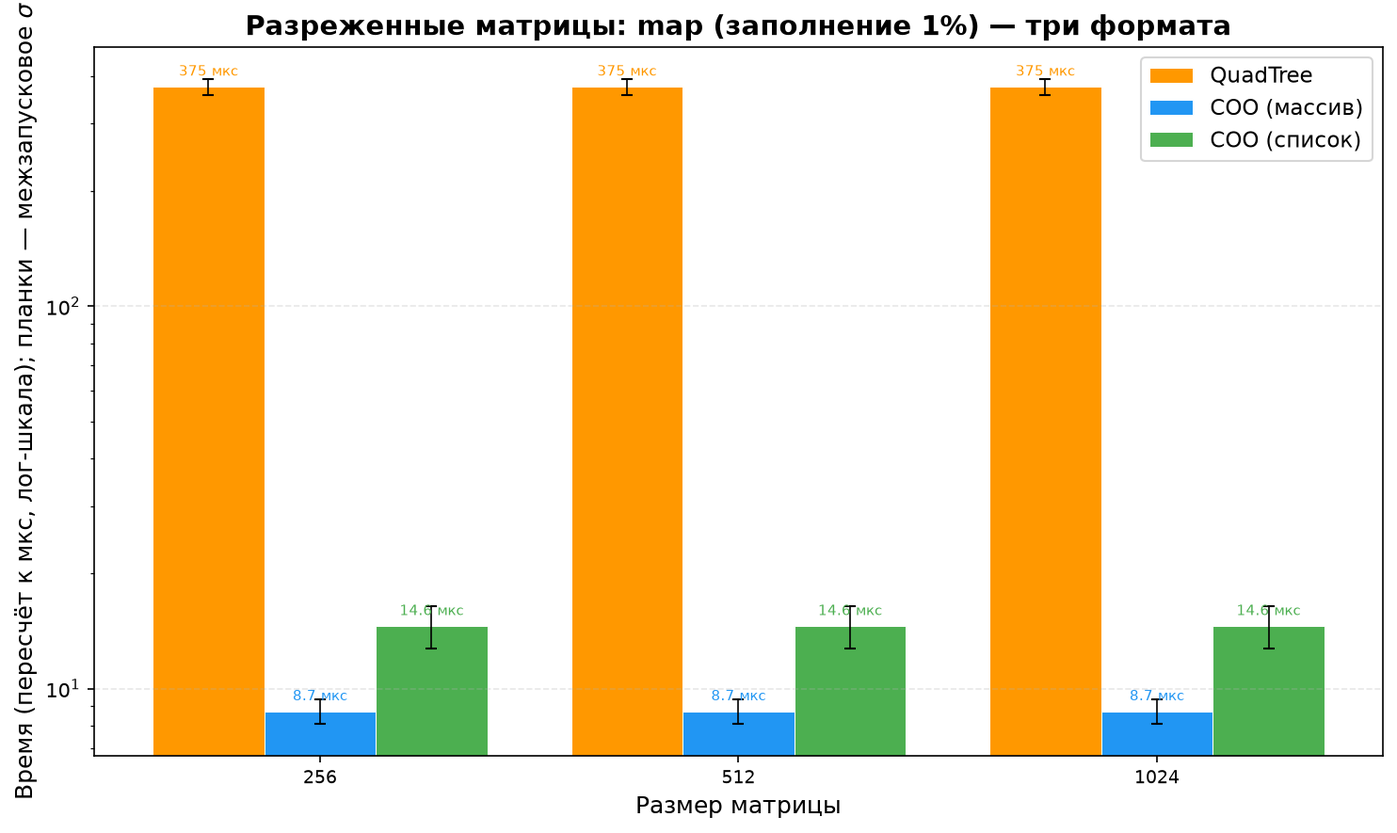
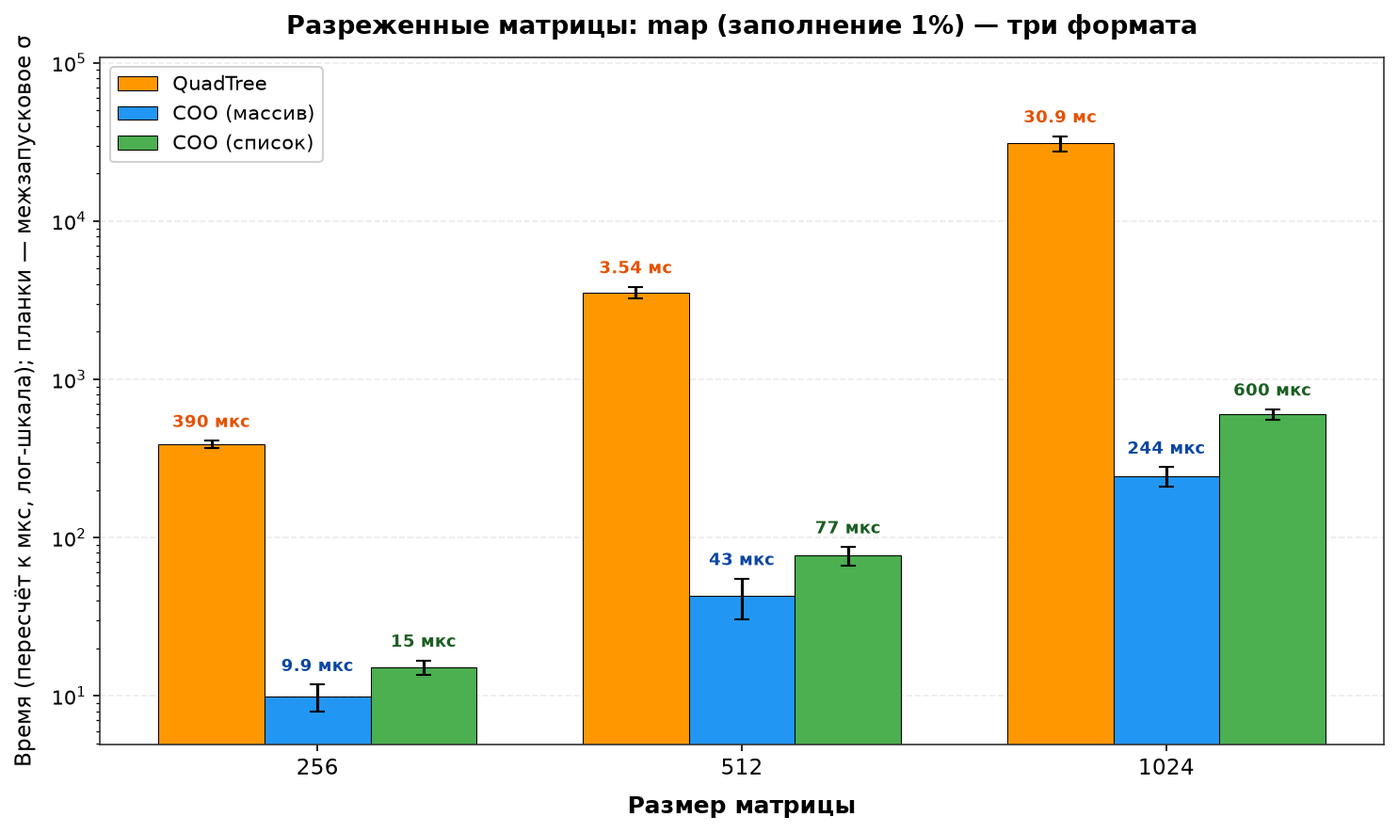
docs: update practice report and benchmark figures

Changed region(s): [[0.0, 0.0, 0.9919, 0.9763]]

diff --git a/Sergej_Narysev/Sergej_Narysev_report.tex b/Sergej_Narysev/Sergej_Narysev_report.tex
@@ -1,4 +1,4 @@
-\documentclass[a4paper]{article}
+\documentclass[a4paper]{article}
 
 \usepackage[a4paper, top=8mm, bottom=8mm, left=8mm, right=8mm]{geometry}
 \usepackage{float}
@@ -226,12 +226,12 @@ Property-based тесты (проверяются на широком диапа
     \end{minipage}
 \end{figure}
 
-Результаты для матриц с плотностью~5\% имеют тот же характер, но абсолютные значения времени выше. На матрице $1024\times1024$ время \texttt{map} возрастает с $0{,}269$ до $8{,}58$\,мс (в 32 раза), \texttt{mxm}~--- с $76{,}9$ до $1908$\,мс (в 25 раз), а \texttt{mapi}~--- лишь с $13{,}3$ до $21{,}6$\,мс (в 1{,}6 раза), поскольку \texttt{mapi} обходит всю сетку $N^2$ независимо от числа ненулевых элементов. Из графиков для плотности~5\% приведён \texttt{mapi} (рис.~\ref{fig:sparse_mapi_5}); остальные опущены, чтобы не перегружать отчёт.
+Результаты для матриц с плотностью~5\% имеют тот же характер, но абсолютные значения времени выше. На матрице $1024\times1024$ время \texttt{map} возрастает с $0{,}244$ до $10{,}8$\,мс (в 44 раза), \texttt{mxm}~--- с $56{,}3$ до $1294$\,мс (в 23 раза), а \texttt{mapi}~--- лишь с $10{,}4$ до $24{,}6$\,мс (в 2{,}4 раза), поскольку \texttt{mapi} обходит всю сетку $N^2$ независимо от числа ненулевых элементов. Из графиков для плотности~5\% приведён \texttt{mapi} (рис.~\ref{fig:sparse_mapi_5}); остальные опущены, чтобы не перегружать отчёт.
 
 По результатам измерений на разреженных синтетических матрицах:
 \begin{itemize}
-    \item \textbf{\texttt{map}, \texttt{mapi}, \texttt{map2}, \texttt{map2i}, \texttt{mxm}:} COO на массиве быстрее quadtree во всех случаях. На матрице $1024\times1024$ с плотностью~1\% COO быстрее в операции \texttt{map} в 120 раз ($0{,}269 \pm 0{,}057$\,мс против $32{,}4 \pm 14$\,мс), в \texttt{mapi}~--- в 8,1 раза ($13{,}3 \pm 4{,}2$\,мс против $107 \pm 42$\,мс), в \texttt{map2}~--- в 8,1 раза ($7{,}76 \pm 2{,}7$\,мс против $63{,}1 \pm 12$\,мс), в \texttt{map2i}~--- в 10,5 раза ($15{,}7 \pm 2{,}3$\,мс против $165 \pm 54$\,мс), в \texttt{mxm}~--- в 101 раз ($76{,}9 \pm 9{,}4$\,мс против $7{,}76 \pm 0{,}89$\,с). Группировка троек по строкам в \texttt{mxmcoo} даёт перебор только ненулевых пар, число которых равно $k$ (лемма 5), тогда как рекурсивный алгоритм quadtree в таких данных почти не получает выигрыша от конденсации.
-    \item \textbf{\texttt{get} и \texttt{set}:} quadtree быстрее, но после перехода COO на бинарный поиск разрыв по \texttt{get} практически исчез. На матрице $1024\times1024$ с плотностью~1\% \texttt{get} сопоставимы: $32{,}4 \pm 4{,}7$\,мкс у quadtree против $34{,}5 \pm 3{,}8$\,мкс у COO (quadtree быстрее лишь в 1,06 раза, то есть в пределах межзапускового разброса). Для \texttt{set} quadtree быстрее в 12,8 раза ($0{,}374 \pm 0{,}045$\,мс против $4{,}77 \pm 0{,}94$\,мс). Ожидаемо: доступ и обновление в дереве выполняются за $O(\log N)$, тогда как COO выполняет бинарный поиск по отсортированному массиву за $O(\log n)$, а обновление дополнительно требует копирования массива и сдвига за $O(n)$.
+    \item \textbf{\texttt{map}, \texttt{mapi}, \texttt{map2}, \texttt{map2i}, \texttt{mxm}:} COO на массиве быстрее quadtree во всех случаях. На матрице $1024\times1024$ с плотностью~1\% COO быстрее в операции \texttt{map} в 127 раз ($0{,}244 \pm 0{,}035$\,мс против $30{,}9 \pm 3{,}5$\,мс), в \texttt{mapi}~--- в 12,3 раза ($10{,}4 \pm 1{,}1$\,мс против $128 \pm 7{,}8$\,мс), в \texttt{map2}~--- в 15,2 раза ($4{,}10 \pm 0{,}39$\,мс против $62{,}2 \pm 6{,}7$\,мс), в \texttt{map2i}~--- в 10,6 раза ($16{,}0 \pm 0{,}53$\,мс против $169 \pm 25$\,мс), в \texttt{mxm}~--- в 161 раз ($56{,}3 \pm 10{,}0$\,мс против $9{,}05 \pm 2{,}01$\,с). Группировка троек по строкам в \texttt{mxmcoo} даёт перебор только ненулевых пар, число которых равно $k$ (лемма 5), тогда как рекурсивный алгоритм quadtree в таких данных почти не получает выигрыша от конденсации.
+    \item \textbf{\texttt{get} и \texttt{set}:} quadtree быстрее, но после перехода COO на бинарный поиск разрыв по \texttt{get} практически исчез. На матрице $1024\times1024$ с плотностью~1\% \texttt{get} сопоставимы: $35{,}6 \pm 1{,}4$\,мкс у quadtree против $34{,}3 \pm 7{,}5$\,мкс у COO (сопоставимы, COO быстрее лишь в 1,04 раза, то есть в пределах межзапускового разброса). Для \texttt{set} quadtree быстрее в 12,6 раза ($0{,}401 \pm 0{,}012$\,мс против $5{,}05 \pm 0{,}43$\,мс). Ожидаемо: доступ и обновление в дереве выполняются за $O(\log N)$, тогда как COO выполняет бинарный поиск по отсортированному массиву за $O(\log n)$, а обновление дополнительно требует копирования массива и сдвига за $O(n)$.
 \end{itemize}
 
 \subsection{Эксперимент~2: Плотные матрицы}
@@ -276,7 +276,7 @@ Property-based тесты (проверяются на широком диапа
     \end{minipage}
 \end{figure}
 
-На плотных данных проявляется специализация форматов. В операциях \texttt{get}, \texttt{set} и \texttt{mxm} quadtree быстрее COO. На матрице $256\times256$ \texttt{get} сопоставимы: $2{,}68 \pm 0{,}24$\,мс у quadtree против $3{,}61 \pm 0{,}19$\,мс у COO (в 1,35 раза): quadtree спускается по $\log N$ уровням, а COO~--- по $\log n$ троек. Операция \texttt{set} в COO пересоздаёт отсортированный массив при каждом обновлении (копирование и вставка со сдвигом за $O(n)$): на $256\times256$~--- $18{,}6 \pm 0{,}59$\,мс у quadtree против $8{,}00 \pm 0{,}24$\,с у COO (в 430 раз). В операции \texttt{mxm} quadtree также быстрее: $1{,}50 \pm 0{,}06$\,с у quadtree против $11{,}7 \pm 0{,}6$\,с у COO (в 7,8 раза)~--- деление на подматрицы и конденсация окупаются на плотной структуре. Напротив, в операциях \texttt{map} и \texttt{mapi} COO на массиве быстрее: на $256\times256$~--- $9{,}37 \pm 0{,}23$\,мс у COO против $19{,}1 \pm 0{,}42$\,мс у quadtree (в 2,0 раза) и $11{,}6 \pm 0{,}32$\,мс у COO против $19{,}8 \pm 1{,}2$\,мс у quadtree (в 1,7 раза) соответственно. При этом COO на списке в этих операциях лишь немного медленнее массива ($13{,}8 \pm 0{,}32$\,мс и $13{,}0 \pm 0{,}23$\,мс), но проигрывает в \texttt{get} в 715 раз и в \texttt{set} в 40 раз ($2{,}59 \pm 0{,}011$\,с и $320 \pm 5{,}6$\,с соответственно). При полной плотности quadtree вынужден хранить и обходить почти все $N^2$ листьев, что сводит на нет преимущество конденсации, тогда как COO обрабатывает $n=N^2$ троек с меньшими константными накладными расходами.
+На плотных данных проявляется специализация форматов. В операциях \texttt{get}, \texttt{set} и \texttt{mxm} quadtree быстрее COO. На матрице $256\times256$ \texttt{get} сопоставимы: $2{,}46 \pm 0{,}07$\,мс у quadtree против $2{,}95 \pm 0{,}03$\,мс у COO (в 1,20 раза): quadtree спускается по $\log N$ уровням, а COO~--- по $\log n$ троек. Операция \texttt{set} в COO пересоздаёт отсортированный массив при каждом обновлении (копирование и вставка со сдвигом за $O(n)$): на $256\times256$~--- $19{,}5 \pm 0{,}45$\,мс у quadtree против $8{,}19 \pm 0{,}45$\,с у COO (в 420 раз). В операции \texttt{mxm} quadtree также быстрее: $2{,}07 \pm 0{,}03$\,с у quadtree против $7{,}55 \pm 0{,}09$\,с у COO (в 3,65 раза)~--- деление на подматрицы и конденсация окупаются на плотной структуре. Напротив, в операциях \texttt{map} и \texttt{mapi} COO на массиве быстрее: на $256\times256$~--- $10{,}5 \pm 0{,}35$\,мс у COO против $22{,}7 \pm 0{,}43$\,мс у quadtree (в 2,15 раза) и $10{,}7 \pm 0{,}47$\,мс у COO против $25{,}4 \pm 0{,}82$\,мс у quadtree (в 2,37 раза) соответственно. При этом COO на списке в этих операциях лишь немного медленнее массива ($16{,}4 \pm 0{,}59$\,мс и $17{,}4 \pm 0{,}62$\,мс), но проигрывает в \texttt{get} в 867 раз и в \texttt{set} в 73 раза ($2{,}56 \pm 0{,}04$\,с и $599 \pm 32$\,с соответственно). При полной плотности quadtree вынужден хранить и обходить почти все $N^2$ листьев, что сводит на нет преимущество конденсации, тогда как COO обрабатывает $n=N^2$ троек с меньшими константными накладными расходами.
 
 \subsection{Эксперимент~3: Реальные матрицы}
 
@@ -342,25 +342,25 @@ Property-based тесты (проверяются на широком диапа
         \toprule
         Сценарий & Операция & Quadtree & COO на массиве & COO на списке \\
         \midrule
-        Синтетическая $1024\times1024$,~1\% & \texttt{get} & $32{,}4 \pm 4{,}7$\,мкс & $34{,}5 \pm 3{,}8$\,мкс & $575 \pm 68$\,мкс \\
-                                           & \texttt{set} & $374 \pm 45$\,мкс & $4{,}77 \pm 0{,}94$\,мс & $166 \pm 30$\,мс \\
-        Плотная $256\times256$              & \texttt{get} & $2{,}68 \pm 0{,}24$\,мс & $3{,}61 \pm 0{,}19$\,мс & $2{,}59 \pm 0{,}011$\,с \\
-                                           & \texttt{set} & $18{,}6 \pm 0{,}59$\,мс & $8{,}00 \pm 0{,}24$\,с & $320 \pm 5{,}6$\,с \\
-        Реальная 494\_bus ($n=2160$)         & \texttt{get} & $21{,}9 \pm 1{,}7$\,мкс & $32{,}2 \pm 2{,}6$\,мкс & $1{,}09 \pm 0{,}026$\,мс \\
-                                           & \texttt{set} & $330 \pm 14$\,мкс & $1{,}37 \pm 0{,}25$\,мс & $35{,}2 \pm 2{,}7$\,мс \\
-        Реальная zenios ($n=30064$)         & \texttt{get} & $59{,}9 \pm 9{,}2$\,мкс & $62{,}8 \pm 9{,}8$\,мкс & $21{,}0 \pm 1{,}6$\,мс \\
-                                           & \texttt{set} & $621 \pm 120$\,мкс & $95{,}1 \pm 2{,}2$\,мс & $1{,}53 \pm 0{,}28$\,с \\
+        Синтетическая $1024\times1024$,~1\% & \texttt{get} & $35{,}6 \pm 1{,}4$\,мкс & $34{,}3 \pm 7{,}5$\,мкс & $644 \pm 64$\,мкс \\
+                                           & \texttt{set} & $401 \pm 12$\,мкс & $5{,}05 \pm 0{,}43$\,мс & $347 \pm 45$\,мс \\
+        Плотная $256\times256$              & \texttt{get} & $2{,}46 \pm 0{,}07$\,мс & $2{,}95 \pm 0{,}03$\,мс & $2{,}56 \pm 0{,}04$\,с \\
+                                           & \texttt{set} & $19{,}5 \pm 0{,}45$\,мс & $8{,}19 \pm 0{,}45$\,с & $599 \pm 32$\,с \\
+        Реальная 494\_bus ($n=2160$)         & \texttt{get} & $27{,}9 \pm 4{,}1$\,мкс & $24{,}3 \pm 6{,}6$\,мкс & $1{,}05 \pm 0{,}14$\,мс \\
+                                           & \texttt{set} & $352 \pm 18$\,мкс & $1{,}37 \pm 0{,}82$\,мс & $56{,}1 \pm 51{,}9$\,мс \\
+        Реальная zenios ($n=30064$)         & \texttt{get} & $64{,}0 \pm 3{,}3$\,мкс & $54{,}3 \pm 8{,}3$\,мкс & $17{,}1 \pm 2{,}35$\,мс \\
+                                           & \texttt{set} & $606 \pm 130$\,мкс & $71{,}7 \pm 26{,}8$\,мс & $2{,}34 \pm 1{,}74$\,с \\
         \bottomrule
     \end{tabular}
 \end{table}
 
-Для \texttt{get} массив практически догоняет quadtree (разница 1,05--1,8 раза), тогда как список на больших $n$ отстаёт от массива в сотни раз (на zenios~--- в 335 раз, на плотной $256\times256$~--- в 715 раз, на dwt\_992~--- в 262 раза): у связного списка нет произвольного доступа, поэтому бинарный поиск невозможен. При малых $n$ (bcspwr01) и эта разница невелика (в 4,9 раза), то есть и для самых маленьких матриц список остаётся медленнее массива.
+Для \texttt{get} массив практически сопоставим с quadtree (разница 0,66--1,18 раза), тогда как список на больших $n$ отстаёт от массива в сотни раз (на zenios~--- в 315 раз, на плотной $256\times256$~--- в 867 раз, на dwt\_992~--- в 229 раз): у связного списка нет произвольного доступа, поэтому бинарный поиск невозможен. При малых $n$ (bcspwr01) и эта разница меньше (в 5,2 раза), но и для самых маленьких матриц список остаётся медленнее массива.
 
-Для \texttt{set} картина противоположна ожиданиям для связного списка. Пересборка COO на массиве хотя и требует $O(n)$ на обновление, но выполняется плотным копированием блоков памяти (\texttt{Array.copy} и \texttt{Array.blit}) без накладных расходов на каждую ячейку, тогда как список пересобирается поштучно. Поэтому массив быстрее списка во всех сценариях: на реальных матрицах~--- в 4,8--40 раз (минимально на cryg2500, максимально на jagmesh7), на синтетической матрице $1024\times1024$ с плотностью~1\%~--- в 35 раз ($4{,}77$ против $166$\,мс), на плотной $256\times256$~--- в 40 раз ($8{,}00$ против $320$\,с). Таким образом, для \texttt{set} выбор представления однозначен в пользу массива: преимущество списка, предполагавшееся из-за отсутствия копирования блоков памяти, на измерениях не подтвердилось. Сравнение с quadtree остаётся в пользу дерева на девяти из десяти реальных матриц~--- от 3,0 раза (arc130) до 204 раз (dwt\_992), исключение~--- самая маленькая матрица bcspwr01, где COO быстрее в 1,07 раза; на синтетике quadtree быстрее в 12,8 раза, на плотной матрице~--- в 430 раз.
+Для \texttt{set} картина противоположна ожиданиям для связного списка. Пересборка COO на массиве хотя и требует $O(n)$ на обновление, но выполняется плотным копированием блоков памяти (\texttt{Array.copy} и \texttt{Array.blit}) без накладных расходов на каждую ячейку, тогда как список пересобирается поштучно. Поэтому массив быстрее списка во всех сценариях: на реальных матрицах~--- в 20--56 раз (минимально на cryg2500, максимально на jagmesh7), на синтетической матрице $1024\times1024$ с плотностью~1\%~--- в 69 раз ($5{,}05$ против $347$\,мс), на плотной $256\times256$~--- в 73 раза ($8{,}19$ против $599$\,с). Таким образом, для \texttt{set} выбор представления однозначен в пользу массива: преимущество списка, предполагавшееся из-за отсутствия копирования блоков памяти, на измерениях не подтвердилось. Сравнение с quadtree остаётся в пользу дерева на девяти из десяти реальных матриц~--- от 3,8 раза (arc130) до 118 раз (zenios), исключение~--- самая маленькая матрица bcspwr01, где COO быстрее в 1,11 раза; на синтетике quadtree быстрее в 12,6 раза, на плотной матрице~--- в 420 раз.
 
 Полная картина по всем реальным матрицам SuiteSparse для \texttt{get} и \texttt{set} приведена на рис.~\ref{fig:real_get} и~\ref{fig:real_set}: на каждом графике сравниваются сразу три реализации (quadtree, COO на массиве и COO на списке).
 
-В операциях отображения~--- \texttt{map}, \texttt{mapi}, \texttt{map2}, \texttt{map2i},~--- бинарный поиск не используется, и асимптотика обеих версий одинакова: они обходят одни и те же тройки. На практике списочная версия медленнее: на синтетике в 1,2--2,2 раза (табл.~\ref{tab:array_vs_list_format}), на реальных матрицах в 1,2--1,5 раза для \texttt{mapi}; для \texttt{map} на реальных матрицах отношение лежит в диапазоне 0,4--2,1 раза, причём на dwt\_992, cryg2500 и zenios список оказывается быстрее массива. Исключение~--- \texttt{map2} при плотности~1\%, где список быстрее массива в 1,2 раза. На \texttt{mxm} разрыв также велик: 3,5--4,0 раза на синтетике и 1,9--4,9 раза на реальных матрицах; наибольший разрос между представлениями возникает всё же в \texttt{get} (до 715 раз на плотной матрице), поскольку там линейный поиск вынужден проходить по всей длине списка. Причина~--- пересборка списков: каждый результат собирается обходом по указателям с выделением новых ячеек, тогда как массивная версия накапливает результат в динамический массив и сортирует его на месте.
+В операциях отображения~--- \texttt{map}, \texttt{mapi}, \texttt{map2}, \texttt{map2i},~--- бинарный поиск не используется, и асимптотика обеих версий одинакова: они обходят одни и те же тройки. На практике списочная версия медленнее в большинстве случаев: на синтетике в 1,3--2,5 раза (табл.~\ref{tab:array_vs_list_format}), на реальных матрицах для \texttt{map} отношение лежит в диапазоне 0,6--2,8 раза, причём на dwt\_992, cryg2500 и zenios список оказывается быстрее массива. Исключение на синтетике~--- \texttt{mapi} и \texttt{map2} при плотности~1\%, где список быстрее массива в 1,3--1,4 раза. На \texttt{mxm} разрыв также сохраняется: 1,9--2,2 раза на синтетике и 1,6--2,0 раза на реальных матрицах; наибольший разрыв между представлениями возникает всё же в \texttt{get} (до 867 раз на плотной матрице), поскольку там линейный поиск вынужден проходить по всей длине списка. Причина~--- пересборка списков: каждый результат собирается обходом по указателям с выделением новых ячеек, тогда как массивная версия накапливает результат в динамический массив и сортирует его на месте.
 
 \begin{table}[H]
     \centering
@@ -373,16 +373,16 @@ Property-based тесты (проверяются на широком диапа
         \cmidrule(lr){2-4} \cmidrule(lr){5-7}
         & массив & список & отн. & массив & список & отн. \\
         \midrule
-        \texttt{map}   & $0{,}269 \pm 0{,}057$ & $0{,}579 \pm 0{,}12$ & 2,16 & $8{,}58 \pm 1{,}06$ & $11{,}0 \pm 1{,}29$ & 1,28 \\
-        \texttt{mapi}  & $13{,}3 \pm 4{,}2$ & $16{,}0 \pm 3{,}4$ & 1,20 & $21{,}6 \pm 3{,}4$ & $27{,}6 \pm 2{,}0$ & 1,28 \\
-        \texttt{map2}  & $7{,}76 \pm 2{,}7$ & $6{,}34 \pm 0{,}81$ & 0,82 & $37{,}1 \pm 5{,}9$ & $51{,}2 \pm 4{,}2$ & 1,38 \\
-        \texttt{map2i} & $15{,}7 \pm 2{,}3$ & $19{,}5 \pm 2{,}8$ & 1,24 & $35{,}0 \pm 3{,}2$ & $49{,}8 \pm 6{,}7$ & 1,42 \\
-        \texttt{mxm}   & $76{,}9 \pm 9{,}4$ & $309 \pm 27$ & 4,02 & $1908 \pm 373$ & $6733 \pm 1020$ & 3,53 \\
+        \texttt{map}   & $0{,}244 \pm 0{,}035$ & $0{,}600 \pm 0{,}048$ & 2,46 & $10{,}8 \pm 3{,}30$ & $16{,}1 \pm 3{,}81$ & 1,49 \\
+        \texttt{mapi}  & $10{,}4 \pm 1{,}10$ & $7{,}34 \pm 0{,}68$ & 0,71 & $24{,}6 \pm 6{,}76$ & $20{,}3 \pm 4{,}25$ & 0,83 \\
+        \texttt{map2}  & $4{,}10 \pm 0{,}39$ & $3{,}21 \pm 0{,}19$ & 0,78 & $26{,}4 \pm 4{,}91$ & $54{,}2 \pm 22{,}2$ & 2,05 \\
+        \texttt{map2i} & $16{,}0 \pm 0{,}53$ & $9{,}61 \pm 0{,}43$ & 0,60 & $36{,}6 \pm 2{,}65$ & $47{,}6 \pm 11{,}9$ & 1,30 \\
+        \texttt{mxm}   & $56{,}3 \pm 10{,}0$ & $107 \pm 15{,}2$ & 1,90 & $1294 \pm 227$ & $2889 \pm 1101$ & 2,23 \\
         \bottomrule
     \end{tabular}
 \end{table}
 
-Особый случай~--- умножение матриц (\texttt{mxm}). Алгоритм \texttt{mxmcoo} группирует тройки по строкам и сортирует результат (сложность $O(n_1\log n_2 + k\log(k+1))$ в худшем случае, лемма 5); начало строки в массиве троек матрицы $B$ при этом находится бинарным поиском, однако стоимость пересборки сказывается и здесь: массивная версия накапливает продукты в динамический массив с последующей сортировкой, списочная строит промежуточное отображение Map и применяет группировку списков. Поэтому на \texttt{mxm} выбор представления влияет заметно: на синтетике список медленнее в 3,5--4,0 раза (табл.~\ref{tab:array_vs_list_format}), на реальных матрицах~--- в 1,9--4,9 раза (рис.~\ref{fig:real_mxm}).
+Особый случай~--- умножение матриц (\texttt{mxm}). Алгоритм \texttt{mxmcoo} группирует тройки по строкам и сортирует результат (сложность $O(n_1\log n_2 + k\log(k+1))$ в худшем случае, лемма 5); начало строки в массиве троек матрицы $B$ при этом находится бинарным поиском, однако стоимость пересборки сказывается и здесь: массивная версия накапливает продукты в динамический массив с последующей сортировкой, списочная строит промежуточное отображение Map и применяет группировку списков. Поэтому на \texttt{mxm} выбор представления влияет заметно: на синтетике список медленнее в 1,9--2,2 раза (табл.~\ref{tab:array_vs_list_format}), на реальных матрицах~--- в 1,6--2,0 раза (рис.~\ref{fig:real_mxm}).
 
 
 \section{Анализ асимптотической сложности}
@@ -448,10 +448,10 @@ COO упорядочивает $n$ троек за $O(n\log n)$ операций
 Основные наблюдения.
 
 \begin{enumerate}
-    \item \textbf{Операции \texttt{map} и \texttt{mapi}.} COO быстрее quadtree на всех десяти матрицах: в \texttt{map}~--- в 2,7--54 раза, в \texttt{mapi}~--- в 5,5--7,5 раз. При этом в \texttt{map} на трёх матрицах (dwt\_992, cryg2500, zenios) лучший результат даёт не массив, а список (в 1,4--2,7 раза быстрее массива), тогда как на остальных семи массив выигрывает в 1,5--2,1 раза. Причина~--- в структуре данных: COO обрабатывает только $n$ троек ($O(n)$), тогда как quadtree обходит узлы дерева ($O(T)$), причём на реальных матрицах $T$ близко к $N^2$, так что разница сводится к константе и объёму обхода. На самых маленьких матрицах ($N = 39$) накладные расходы рекурсии в quadtree перевешивают это преимущество.
-    \item \textbf{Операция \texttt{get}.} На массиве с бинарным поиском COO практически сравнялся с quadtree: на восьми матрицах из десяти quadtree быстрее в 1,05--1,8 раза, на cryg2500 COO быстрее в 1,11 раза, а на bcspwr06 результаты сопоставимы (в 1,01 раза). Благодаря доступу за $O(\log n)$ операция больше не зависит от числа троек так сильно, как в линейном варианте.
-    \item \textbf{Операция \texttt{set}.} Quadtree быстрее на девяти матрицах из десяти: от 3,0 (arc130) до 204 (dwt\_992). На самой маленькой матрице bcspwr01 COO оказывается быстрее в 1,07 раза. Обновление в quadtree~--- это $O(\log N)$, тогда как в COO каждое обновление пересоздаёт отсортированный массив со вставкой со сдвигом~--- $O(n)$; относительный разрыв растёт пропорционально $n$.
-    \item \textbf{Умножение матриц (\texttt{mxm}).} COO на массиве быстрее quadtree на всех десяти матрицах (в 2,7--199 раз), включая маленькую матрицу arc130 (в 2,7 раза). Разрежённый алгоритм \texttt{mxmcoo} выполняет группировку по строкам и перебор только ненулевых пар, то есть $\Theta(k\log k)$ операций, лемма 5, что эффективно для реальных матриц с умеренной плотностью и структурой почти без блочности. Рекурсивный алгоритм quadtree на разреженных реальных данных не получает достаточного выигрыша от конденсации поддеревьев.
+    \item \textbf{Операции \texttt{map} и \texttt{mapi}.} COO быстрее quadtree на всех десяти матрицах: в \texttt{map}~--- в 2,9--62 раза, в \texttt{mapi}~--- в 8,7--12,7 раз. При этом в \texttt{map} на трёх матрицах (dwt\_992, cryg2500, zenios) лучший результат даёт не массив, а список (в 1,1--1,7 раза быстрее массива), тогда как на остальных семи массив выигрывает в 2,3--2,8 раза. Причина~--- в структуре данных: COO обрабатывает только $n$ троек ($O(n)$), тогда как quadtree обходит узлы дерева ($O(T)$), причём на реальных матрицах $T$ близко к $N^2$, так что разница сводится к константе и объёму обхода. На самых маленьких матрицах ($N = 39$) накладные расходы рекурсии в quadtree перевешивают это преимущество.
+    \item \textbf{Операция \texttt{get}.} На массиве с бинарным поиском COO практически сравнялся с quadtree: на всех матрицах времена сопоставимы (различие укладывается в диапазон 0,7--1,7 раза; на половине матриц COO оказывается быстрее, на остальных быстрее quadtree). Благодаря доступу за $O(\log n)$ операция больше не зависит от числа троек так сильно, как в линейном варианте.
+    \item \textbf{Операция \texttt{set}.} Quadtree быстрее на девяти матрицах из десяти: от 3,8 (arc130) до 118 (zenios). На самой маленькой матрице bcspwr01 COO оказывается быстрее в 1,11 раза. Обновление в quadtree~--- это $O(\log N)$, тогда как в COO каждое обновление пересоздаёт отсортированный массив со вставкой со сдвигом~--- $O(n)$; относительный разрыв растёт пропорционально $n$.
+    \item \textbf{Умножение матриц (\texttt{mxm}).} COO на массиве быстрее quadtree на всех десяти матрицах (в 3,1--200 раз), включая маленькую матрицу arc130 (в 3,1 раза). Разрежённый алгоритм \texttt{mxmcoo} выполняет группировку по строкам и перебор только ненулевых пар, то есть $\Theta(k\log k)$ операций, лемма 5, что эффективно для реальных матриц с умеренной плотностью и структурой почти без блочности. Рекурсивный алгоритм quadtree на разреженных реальных данных не получает достаточного выигрыша от конденсации поддеревьев.
 \end{enumerate}
 
 \section{Заключение}
@@ -461,11 +461,11 @@ COO упорядочивает $n$ троек за $O(n\log n)$ операций
 \begin{itemize}
     \item Реализован модуль COO с операциями доступа, обновления, отображения и умножения матриц в формате Coordinate List.
     \item Реализованы функции преобразования между форматами COO и quadtree.
-    \item Написано 411 тестов: 404 модульных (из них 44~--- для модуля \texttt{COOArray} и 39~--- для модуля \texttt{COOList}) и 7 property-based на FsCheck. Все тесты проходят.
+    \item Написано 416 тестов: 409 модульных (из них 44~--- для модуля \texttt{COOArray} и 39~--- для модуля \texttt{COOList}) и 7 property-based на FsCheck. Все тесты проходят.
     \item Разработана инфраструктура измерения производительности на базе BenchmarkDotNet с методологией повторных измерений: каждая конфигурация измеряется в одном запуске процесса (LaunchCount=1) с пятью прогревочными и десятью измеряемыми итерациями, а вся конфигурация повторяется в пяти независимых запусках для оценки воспроизводимости.
     \item Проведён сравнительный анализ производительности форматов COO и quadtree на синтетических (разреженных и плотных) и десяти реальных матрицах из коллекции SuiteSparse.
-    \item Установлено, что на разрежённых данных COO эффективнее для операций \texttt{map}, \texttt{mapi}, \texttt{map2} и \texttt{mxm} (на реальных матрицах COO выигрывает умножение на всех десяти, а на плотных~--- наоборот, quadtree быстрее при \texttt{mxm} в 7,8 раза), тогда как quadtree эффективнее для \texttt{get} и \texttt{set} благодаря доступу за $O(\log N)$ против $O(\log n)$ (и $O(n)$ на вставку со сдвигом) в COO.
-    \item Реализованы две версии формата COO~--- на отсортированном массиве (модуль \texttt{COOArray}) и на связном списке (модуль \texttt{COOList})~--- и измерены их различия: для \texttt{get} выигрывает массив (бинарный поиск против линейного обхода, на больших $n$ в сотни раз), для \texttt{set} массив также быстрее списка в 4,8--40 раз (плотное копирование блоков памяти против поштучной пересборки списка), а в операциях \texttt{map}, \texttt{mapi}, \texttt{map2}, \texttt{map2i}, \texttt{mxm} списочная версия медленнее массива в 1,2--2,2 раза на отображении и в 1,9--4,9 раза на умножении (пересборка списков против накопления в массиве и сортировки). Исключение~--- \texttt{map} на трёх реальных матрицах (dwt\_992, cryg2500, zenios), где список быстрее массива в 1,4--2,7 раза.
+    \item Установлено, что на разрежённых данных COO эффективнее для операций \texttt{map}, \texttt{mapi}, \texttt{map2} и \texttt{mxm} (на реальных матрицах COO выигрывает умножение на всех десяти, а на плотных~--- наоборот, quadtree быстрее при \texttt{mxm} в 3,7 раза), тогда как quadtree эффективнее для \texttt{get} и \texttt{set} благодаря доступу за $O(\log N)$ против $O(\log n)$ (и $O(n)$ на вставку со сдвигом) в COO.
+    \item Реализованы две версии формата COO~--- на отсортированном массиве (модуль \texttt{COOArray}) и на связном списке (модуль \texttt{COOList})~--- и измерены их различия: для \texttt{get} выигрывает массив (бинарный поиск против линейного обхода, на больших $n$ в сотни раз), для \texttt{set} массив также быстрее списка в 20--56 раз (плотное копирование блоков памяти против поштучной пересборки списка), а в операциях \texttt{map}, \texttt{mapi}, \texttt{map2}, \texttt{map2i}, \texttt{mxm} списочная версия медленнее массива в большинстве случаев (в 1,3--2,5 раза на отображении и в 1,6--2,2 раза на умножении). Исключение~--- \texttt{map} на трёх реальных матрицах (dwt\_992, cryg2500, zenios), где список быстрее массива в 1,1--1,7 раза.
     \item Обоснованы асимптотические оценки операций для обоих форматов (разд.~\ref{sec:asympt}).
 \end{itemize}
 
